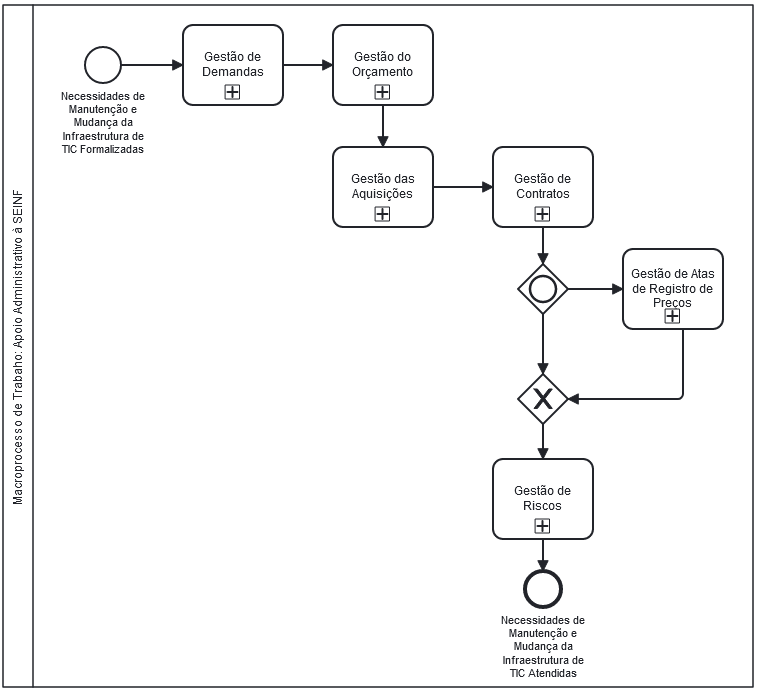
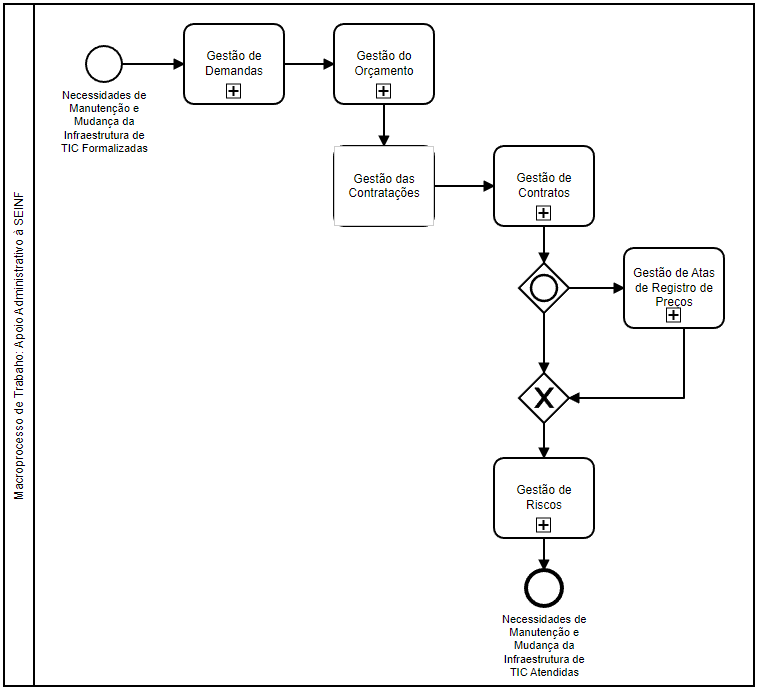
Revisar: Corrigir nomenclatura de "Gestão de Aquisições" para "Gestão de Contratações"
- Em conformidade com a nomenclatura da Resolução TRE-PB nº 14/2022 - Institui a Política de Governança de Contratações do TRE-PB;

Changed region(s): [[0.0, 0.0, 1.0, 1.0], [0.7596, 0.213, 0.79, 0.2435]]

diff --git a/README.md b/README.md
@@ -29,7 +29,7 @@ Este repositório contém a gestão do conhecimento dos **processos de trabalho 
 |1|[Gestão de Demandas](./gestao-de-demandas/README.md)|
 |2|[Governança e Gestão da Estratégia](./governanca-e-gestao-estrategica/README.md)|
 |3|[Gestão do Orçamento](./gestao-do-orcamento/README.md)|
-|4|[Gestão de Aquisições](./gestao-de-aquisicoes/README.md)|
+|4|[Gestão de Contratações](./gestao-de-contratacoes/README.md)|
 |5|[Gestão de Contratos](./gestao-de-contratos/README.md)|
 |6|[Gestão de Atas de Registro de Preços(ARPs)](./gestao-de-arps/README.md)|
 |7|[Gestão de Riscos](./gestao-de-riscos/README.md)|
